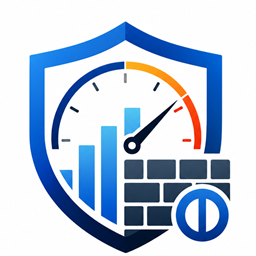
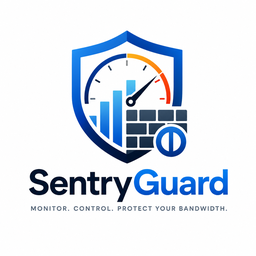
Fix packaged-app blank screen and backend connection race
vite.config.js was missing base: "./", so the built index.html used
absolute asset paths that break under Electron's file:// protocol,
rendering a blank window. Also fix subscribeUsage() never retrying its
WebSocket: in production the renderer loads before the spawned backend
finishes binding its port, so the first connection attempt could lose
the race and the UI would show "Disconnected" forever. It now retries
every 2s on close/error. Electron's main process also now logs the
backend's stdout/stderr to %APPDATA%/SentryGuard/backend.log for future
debugging.

Swaps in the proper SentryGuard icon pack (installer .ico, window/tray
icons, favicon, in-app mark) in place of the earlier generated crop.

diff --git a/frontend/src/api.js b/frontend/src/api.js
@@ -93,11 +93,32 @@ export async function forgetNetwork(networkId) {
   return res.json();
 }
 
+const USAGE_RECONNECT_DELAY_MS = 2000;
+
 export function subscribeUsage(onUsage, onConnectionChange) {
-  const ws = new WebSocket(`${WS_URL}/ws/usage`);
-  ws.onopen = () => onConnectionChange?.(true);
-  ws.onclose = () => onConnectionChange?.(false);
-  ws.onerror = () => onConnectionChange?.(false);
-  ws.onmessage = (event) => onUsage(JSON.parse(event.data));
-  return () => ws.close();
+  let ws = null;
+  let retryTimer = null;
+  let stopped = false;
+
+  function connect() {
+    if (stopped) return;
+    ws = new WebSocket(`${WS_URL}/ws/usage`);
+    ws.onopen = () => onConnectionChange?.(true);
+    ws.onmessage = (event) => onUsage(JSON.parse(event.data));
+    ws.onclose = () => {
+      onConnectionChange?.(false);
+      // The backend (a separately-spawned process) may not be up yet when this first
+      // connects, or may restart — keep retrying instead of giving up permanently.
+      if (!stopped) retryTimer = setTimeout(connect, USAGE_RECONNECT_DELAY_MS);
+    };
+    ws.onerror = () => ws.close();
+  }
+
+  connect();
+
+  return () => {
+    stopped = true;
+    clearTimeout(retryTimer);
+    ws?.close();
+  };
 }

diff --git a/frontend/electron/main.js b/frontend/electron/main.js
@@ -1,5 +1,6 @@
 import { app, BrowserWindow, session, Tray, Menu, Notification, nativeImage, ipcMain } from "electron";
 import { spawn } from "node:child_process";
+import fs from "node:fs";
 import path from "node:path";
 import { fileURLToPath } from "node:url";
 
@@ -35,13 +36,32 @@ function startBackend() {
   // In production, the bundled exe (frozen via PyInstaller) ships alongside the app.
   if (isDev) return;
 
+  const logPath = path.join(app.getPath("userData"), "backend.log");
+  const logStream = fs.createWriteStream(logPath, { flags: "a" });
+  const timestamp = new Date().toISOString();
+  logStream.write(`\n--- SentryGuard backend starting ${timestamp} ---\n`);
+  logStream.write(`exe: ${BACKEND_EXE_PATH}\n`);
+  logStream.write(`exists: ${fs.existsSync(BACKEND_EXE_PATH)}\n`);
+
+  if (!fs.existsSync(BACKEND_EXE_PATH)) {
+    logStream.write("Backend exe not found at expected path, aborting spawn.\n");
+    return;
+  }
+
   backendProcess = spawn(BACKEND_EXE_PATH, [], {
     env: { ...process.env, SENTRYGUARD_DATA_DIR: app.getPath("userData") },
     windowsHide: true,
   });
 
+  backendProcess.stdout?.pipe(logStream, { end: false });
+  backendProcess.stderr?.pipe(logStream, { end: false });
+
   backendProcess.on("error", (err) => {
-    console.error("Failed to start SentryGuard backend:", err);
+    logStream.write(`spawn error: ${err.stack || err}\n`);
+  });
+
+  backendProcess.on("exit", (code, signal) => {
+    logStream.write(`backend exited: code=${code} signal=${signal}\n`);
   });
 }
 

diff --git a/frontend/vite.config.js b/frontend/vite.config.js
@@ -4,5 +4,9 @@ import tailwindcss from '@tailwindcss/vite'
 
 // https://vite.dev/config/
 export default defineConfig({
+  // Electron loads the built index.html via file://, where absolute paths
+  // (the default) resolve against the filesystem root instead of dist/ and
+  // produce a blank window. Relative paths work for both that and `vite preview`.
+  base: "./",
   plugins: [react(), tailwindcss()],
 })

diff --git a/frontend/index.html b/frontend/index.html
@@ -2,7 +2,7 @@
 <html lang="en">
   <head>
     <meta charset="UTF-8" />
-    <link rel="icon" type="image/png" href="/favicon-192.png" />
+    <link rel="icon" type="image/png" href="/favicon-128.png" />
     <meta name="viewport" content="width=device-width, initial-scale=1.0" />
     <title>SentryGuard</title>
   </head>

diff --git a/frontend/src/components/Sidebar.jsx b/frontend/src/components/Sidebar.jsx
@@ -1,5 +1,5 @@
 import NavIcon from "./NavIcon";
-import logoMark from "../assets/mark-192.png";
+import logoMark from "../assets/mark-128.png";
 
 const NAV_ITEMS = [
   ["dashboard", "Dashboard"],

diff --git a/frontend/src/components/TitleBar.jsx b/frontend/src/components/TitleBar.jsx
@@ -1,4 +1,4 @@
-import logoMark from "../assets/mark-192.png";
+import logoMark from "../assets/mark-128.png";
 
 export default function TitleBar() {
   const controls = typeof window !== "undefined" ? window.sentryguard?.windowControls : null;

diff --git a/frontend/src/pages/Settings.jsx b/frontend/src/pages/Settings.jsx
@@ -1,7 +1,7 @@
 import ToggleSwitch from "../components/ToggleSwitch";
 import KnownNetworks from "../components/KnownNetworks";
 import { card } from "../lib/ui";
-import logoMark from "../assets/mark-192.png";
+import logoMark from "../assets/mark-128.png";
 
 const numberFieldClass = "bg-white/[0.04] border border-white/10 rounded-lg py-1.5 px-2.5 text-[#e2e8f0] text-sm font-medium text-center outline-none font-mono focus:border-blue-400/50 focus:bg-white/[0.06] transition-colors duration-150";
 